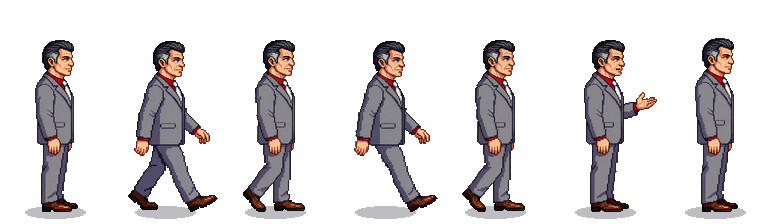
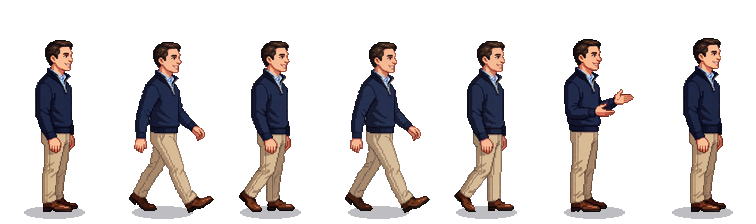
Night Watch art: Chad as a young first-year MBA in a quarter zip (portrait and sprite)
Claude-Session: https://claude.ai/code/session_01JTmPY8Mp65o4MB5dxNnbWK

diff --git a/game/js/watch-art.js b/game/js/watch-art.js
@@ -399,10 +399,10 @@ window.WATCH_ART = {
   },
   "chad": {
    "sheet": "assets/img/watch/people/chad.png",
-   "w": 110,
+   "w": 108,
    "h": 224,
    "anchor": [
-    55,
+    54,
     212
    ],
    "anims": {

diff --git a/game/CREDITS.md b/game/CREDITS.md
@@ -127,7 +127,7 @@ Everything else is drawn in code: portraits for characters without a painted one
 | The Renovation's scene sprites, Architect's Draft (`assets/img/reno`): the street backdrop, the map of Pingsby's Quarter, the blueprint, the lever, the Grand Opening ribbon and the map pin | Generated for this game with [PixelLab](https://pixellab.ai) on Ladi's subscription on 2026-11-16 by `tools/reno_art.py` (7 `generate-image-v2` calls, one pick per item from six of them, with the same Proving Road style image), trimmed with hard alpha edges and converted to lossless WebP; the lever's "on" position is the same sprite mirrored | Used under PixelLab's [Terms of Service](https://pixellab.ai/termsofservice) | Architect's Draft, the Renovation (`js/mode-reno.js`): the street scene, the blueprint cards, the scaffolding levers and the night's map |
 | The Renovation's living street, Architect's Draft (`assets/img/reno/street`): the street painting, the gate with its slate easel, one cottage in four states (old, renovated, under scaffolding, cracked and dark), the rented lot, a resident in two walking frames and a sooty resident, Kai standing with five faces (neutral, blink, talk, happy, worried), Sir Seymour Backups in five poses (proud, inspecting, approving, disapproving, stamping) and the scaffold, lot sign and health-check lever | Rendered by Ladi on [Sogni](https://www.sogni.ai) on 2026-11-16 and 17 (text to image with krea2turbo, and Krea 2 Image Edit from the picked render for the house states, the sooty resident and Seymour's poses), from the prompts in project files `game-modes/architects-draft/living-world/sogni-prompts.md`; Kai's body from Ladi's Kai character sheet (his Sogni persona, built on this game's lead art and PixelLab full body), and his blink, talk, happy and worried faces edited from it with Google's Gemini image model (gemini-3-pro-image-preview) and pasted back as feathered patches; cut out from their backgrounds and sized to WebP by `tools/reno_street_art.py`. The house-dark state was dimmed by hand | Generated for this game; used under Sogni's and Google's Gemini API terms for generated output | Architect's Draft, the Renovation on Beanstalk Row (`js/reno-street.js`, `js/mode-reno.js`): the street you plan on, Seymour's two runs as cutscenes, the verdict and the permit
 | The Renovation's Shrine Bridge, Blueprint Office, square, map, permit office and Wall (`assets/img/reno/street`): the bridge, office yard, town square, Quarter map, permit office and Wall paintings, a blank parchment poster and the same poster torn down, a map pin, the ribbon arch whole and cut, a cheering resident in two frames, two passing frames for the residents' walk, the wayside shrine in three states (old, rebuilt, cracked), the signpost, the alarm bell and the clockwork test walker; the site hut, records well, ledger cabinet, notice board, snapshot jar, rubble and the wax-sealed Retain tag, the brass lever and the rolled blueprint | Rendered by Ladi on [Sogni](https://www.sogni.ai) on 2026-11-16 (text to image with krea2turbo, and Krea 2 Image Edit from the picked render for the rebuilt and cracked shrines, the cut ribbon, the torn poster, the cheering resident and the passing frames), from the prompts in project files `game-modes/architects-draft/living-world/sogni-prompts-nights-2-3.md` and `sogni-prompts-finale-board-wall.md`; cut out from their backgrounds and sized to WebP by `tools/reno_street_art.py` | Generated for this game; used under Sogni's terms for generated output | Architect's Draft, the Renovation's night 2 (the Shrine Bridge) and night 3 (the office yard teardown), and the plan screen's lever and blueprint cards (`js/reno-street.js`, `js/mode-reno.js`) |
-| The Night Watch's cast (`assets/img/watch/people`): Seo-yeon (standing, walking, talking, and holding and walking with her lantern), Mira, Kai, Dutch, Postmaster Coo, Bru, Kagemaru, Lexi, Grandma Wen, Ayo, Aigerim, Chad, Sir Seymour Backups, Old Hobb, Sergeant Pell, Tess, Doug, Hollis, Odu, Fennel, the Captain, the Hooded Stranger and three unnamed townsfolk, each in strict 2D side view facing right with standing, breathing, four walking and (for quest givers) talking frames | Generated for this game with [Sogni](https://www.sogni.ai) on 2026-11-18 with Sogni's `sogni-agent` CLI on Ladi's Sogni Unlimited plan: each standing figure redrawn in side view with Krea 2 Identity Edit (`krea2_identity_edit_v1_2`) from that character's existing art in this game (`assets/img/lead`, `portraits`, `portraits-painted`, `hunt/bru`, `reno/street`), or, for the people new to this mode, drawn in the style of Seo-yeon's side-view render; the walking, talking and lantern frames edited from each standing render with the same model (the third and fourth walking frames added the same way on 2026-11-18); the breathing frame lifts the upper body by one pixel. Since 2026-11-18 the sheets are packed at twice the resolution (drawn at half scale), with Tess drawn very short and Sergeant Pell very tall. Prompts in `tools/watch_art/jobs/`; cut out, scaled, given a soft shadow and packed into strips by `tools/watch_art/build_people.py` | Generated for this game; used under Sogni's terms for generated output | The Night Watch (`js/watch-art.js`): everyone who walks the town and the castle |
+| The Night Watch's cast (`assets/img/watch/people`): Seo-yeon (standing, walking, talking, and holding and walking with her lantern), Mira, Kai, Dutch, Postmaster Coo, Bru, Kagemaru, Lexi, Grandma Wen, Ayo, Aigerim, Chad, Sir Seymour Backups, Old Hobb, Sergeant Pell, Tess, Doug, Hollis, Odu, Fennel, the Captain, the Hooded Stranger and three unnamed townsfolk, each in strict 2D side view facing right with standing, breathing, four walking and (for quest givers) talking frames | Generated for this game with [Sogni](https://www.sogni.ai) on 2026-11-18 with Sogni's `sogni-agent` CLI on Ladi's Sogni Unlimited plan: each standing figure redrawn in side view with Krea 2 Identity Edit (`krea2_identity_edit_v1_2`) from that character's existing art in this game (`assets/img/lead`, `portraits`, `portraits-painted`, `hunt/bru`, `reno/street`), or, for the people new to this mode, drawn in the style of Seo-yeon's side-view render; the walking, talking and lantern frames edited from each standing render with the same model (the third and fourth walking frames added the same way on 2026-11-18); the breathing frame lifts the upper body by one pixel. Since 2026-11-18 the sheets are packed at twice the resolution (drawn at half scale), with Tess drawn very short and Sergeant Pell very tall. Chad redrawn on 2026-11-18 as a young first-year MBA in a navy quarter zip, light blue shirt and khakis, from his new portrait with the same model, and his frames redone from that render. Prompts in `tools/watch_art/jobs/`; cut out, scaled, given a soft shadow and packed into strips by `tools/watch_art/build_people.py` | Generated for this game; used under Sogni's terms for generated output | The Night Watch (`js/watch-art.js`): everyone who walks the town and the castle |
 | The Night Watch's wildlife (`assets/img/watch/animals`): horse, crow, rabbit, owl, pigeon, cat, goat, bat, chicken, dog, sparrow, fox, duck, heron, frog, dove, rat and butterfly, in side view with idle, walking or running, flying and sleeping frames; every bird walks on four frames (the sparrow hops), edited from its standing render on 2026-11-18 | Generated for this game with [Sogni](https://www.sogni.ai) on 2026-11-18 on Ladi's Sogni Unlimited plan: each animal drawn with Krea 2 Turbo (`krea2_turbo_fp8_scaled`) and its other poses edited from it with Krea 2 Identity Edit (`krea2_identity_edit_v1_2`); cut out and sized by `tools/watch_art/build_animals.py`. The moth, bee and firefly are drawn in code by `tools/watch_art/proc.py` | Generated for this game; used under Sogni's terms for generated output | The Night Watch's scenery-only animals (`js/watch-art.js`) |
 | The Night Watch's skies (`assets/img/watch/sky`): a day sky with the sun in the upper left and a night sky with the full moon in the upper right | Generated for this game with [Sogni](https://www.sogni.ai) on 2026-11-18 with Krea 2 Turbo (`krea2_turbo_fp8_scaled`) on Ladi's Sogni Unlimited plan; scaled and cropped to 1600x360 | Generated for this game; used under Sogni's terms for generated output | The Night Watch's sky layer behind every town level, castle window and the bridge |
 | The Night Watch's parallax layers (`assets/img/watch/levels`, `assets/img/watch/floors`): the West Road, Hill Road, Main Street and Far Lane (far hills with the castle on its hill, hazed rooftops, the street and a foreground layer), the castle's towers, upper floor, ground floor and cellars (thirteen cut-away rooms, stair towers and doorways), the bridge and the neighbour's castle. Buildings: the far gate, lookout ruin, wayside shrine, coach house, castle-hill gatehouse, post office, library, bounty board, Doug's flat, Seymour's bunker, Base Camp, the forge, the watch outpost, bakery, Cache Café, Kagemaru's stall, the lock shop, the gate out of town, the orchard cottage, the river dock, granary, town well, three town houses, trees, stairs, lamp posts, fences and bushes | Generated for this game with [Sogni](https://www.sogni.ai) on 2026-11-18 on Ladi's Sogni Unlimited plan: each building, room and prop drawn in flat side elevation with Krea 2 Turbo (`krea2_turbo_fp8_scaled`); the castle-hill gate's archway, the lock shop's sign, the bounty board's posters, the library and the bakery redone with Krea 2 Identity Edit (`krea2_identity_edit_v1_2`) or a new render so doors fit a person and no garbled lettering shows. Cut out, sized and placed at the town's spot positions by `tools/watch_art/compose.py`; the far hills, road surfaces, river boards and stone floors are drawn in code by `tools/watch_art/proc.py` | Generated for this game; used under Sogni's terms for generated output | The Night Watch's town, castle and bridge (`js/watch-art.js`) |
@@ -135,7 +135,7 @@ Everything else is drawn in code: portraits for characters without a painted one
 | The Night Watch's weather overlays (`assets/img/watch/weather`): looping rain, storm rain, fog, low mist and wind (gust streaks and leaves) | Drawn in code for this game by `tools/watch_art/proc.py` on 2026-11-18 | Made for this game | The Night Watch's weather days and nights |
 | The Night Watch's stacked town (`assets/img/watch/town`, and the per-level crops `assets/img/watch/levels/*/street.webp`): the West Road, Hill Road, Main Street and Far Lane on one hillside, each road above the next, joined by sloped paths and the chute | Laid out by `tools/watch_art/town.py` on 2026-11-18 from the Sogni buildings, trees and bushes credited above, plus a hillside soil tile and a stone retaining-wall tile generated for this game with [Sogni](https://www.sogni.ai) on 2026-11-18 with Krea 2 Turbo (`krea2_turbo_fp8_scaled`) on Ladi's Sogni Unlimited plan; roads, ramps, fences, the chute and the dock's plank walkway and river drawn in code. The backdrop behind the terraces (`town/back.webp`) reuses the hazed rooftop rows from the first set of level layers, raised to the top of the hill, over a hazed hillside of the same trees and bushes | Generated for this game; used under Sogni's terms for generated output | The Night Watch's town (`js/watch-art.js`) |
 | The Night Watch's castle floors (`assets/img/watch/floors/*/wall.webp`): the towers, upper floor, ground floor and cellars, each one long wall with its stairs at both ends and its rooms furnished at a person's scale | Generated for this game with [Sogni](https://www.sogni.ai) on 2026-11-18 on Ladi's Sogni Unlimited plan: each floor drawn empty as one wall with Krea 2 Turbo (`krea2_turbo_fp8_scaled`), then furnished in place with Krea 2 Identity Edit (`krea2_identity_edit_v1_2`) using the empty room for scale; windows and doorways keyed out by `tools/watch_art/floors2.py`. The cellar bunk that blocked a doorway removed with one more Krea 2 Identity Edit; the ground floor's window sills, the solid end walls, the opened bridge doorway and the hoist shaft on the left drawn in code by the same script | Generated for this game; used under Sogni's terms for generated output | The Night Watch's castle (`js/watch-art.js`) |
-| The Night Watch's dialogue portraits (`assets/img/watch/portraits/*.webp`): Seo-yeon, Mira, Kai, Dutch, Postmaster Coo, Bru, Kagemaru, Lexi, Grandma Wen, Ayo, Aigerim, Chad, Sir Seymour Backups, Old Hobb, Sergeant Pell, Tess, Doug, Hollis, Odu, Fennel, the Captain and the Hooded Stranger | Generated for this game with [Sogni](https://www.sogni.ai) on 2026-11-18 with Krea 2 Identity Edit (`krea2_identity_edit_v1_2`) on Ladi's Sogni Unlimited plan, each turned into a head-and-shoulders bust from that character's side-view render in `assets/img/watch/people` (and, where one exists, their portrait in `assets/img/portraits` as a second reference); one of two takes picked, cropped and converted to WebP; Seymour's closed visor and a younger, friendlier Chad edited the same way, and Kagemaru's wrists recoloured black in code. Prompts in `tools/watch_art/jobs/jobs-portrait.json` | Generated for this game; used under Sogni's terms for generated output | The Night Watch's dialogue box |
+| The Night Watch's dialogue portraits (`assets/img/watch/portraits/*.webp`): Seo-yeon, Mira, Kai, Dutch, Postmaster Coo, Bru, Kagemaru, Lexi, Grandma Wen, Ayo, Aigerim, Chad, Sir Seymour Backups, Old Hobb, Sergeant Pell, Tess, Doug, Hollis, Odu, Fennel, the Captain and the Hooded Stranger | Generated for this game with [Sogni](https://www.sogni.ai) on 2026-11-18 with Krea 2 Identity Edit (`krea2_identity_edit_v1_2`) on Ladi's Sogni Unlimited plan, each turned into a head-and-shoulders bust from that character's side-view render in `assets/img/watch/people` (and, where one exists, their portrait in `assets/img/portraits` as a second reference); one of two takes picked, cropped and converted to WebP; Seymour's closed visor edited the same way, and Kagemaru's wrists recoloured black in code. Chad's portrait (a young first-year MBA in a navy quarter zip) drawn fresh from a text prompt with Krea 2 Turbo (`krea2_turbo_fp8_scaled`), one of six takes picked. Prompts in `tools/watch_art/jobs/jobs-portrait.json` | Generated for this game; used under Sogni's terms for generated output | The Night Watch's dialogue box |
 
 ## Model
 
